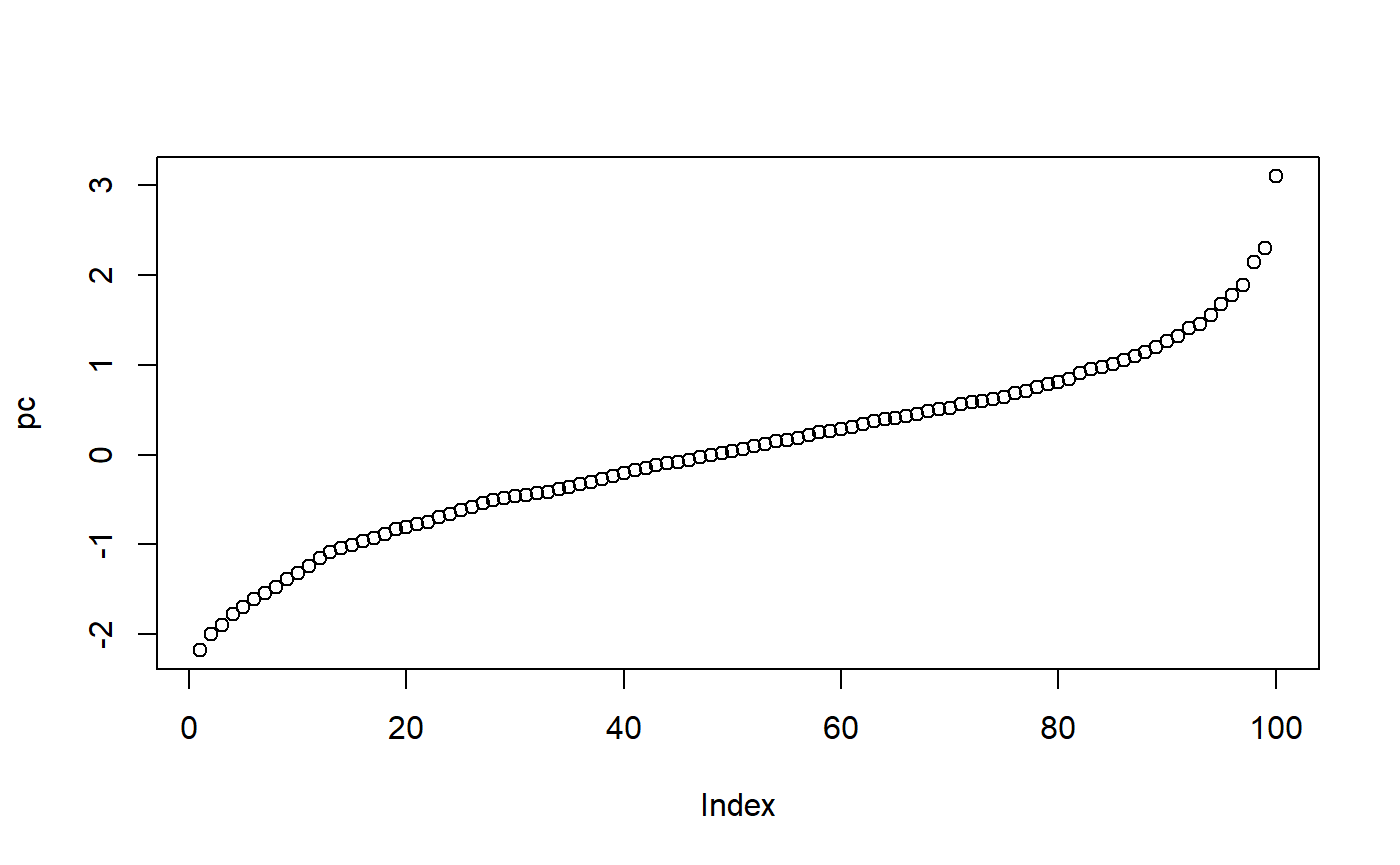
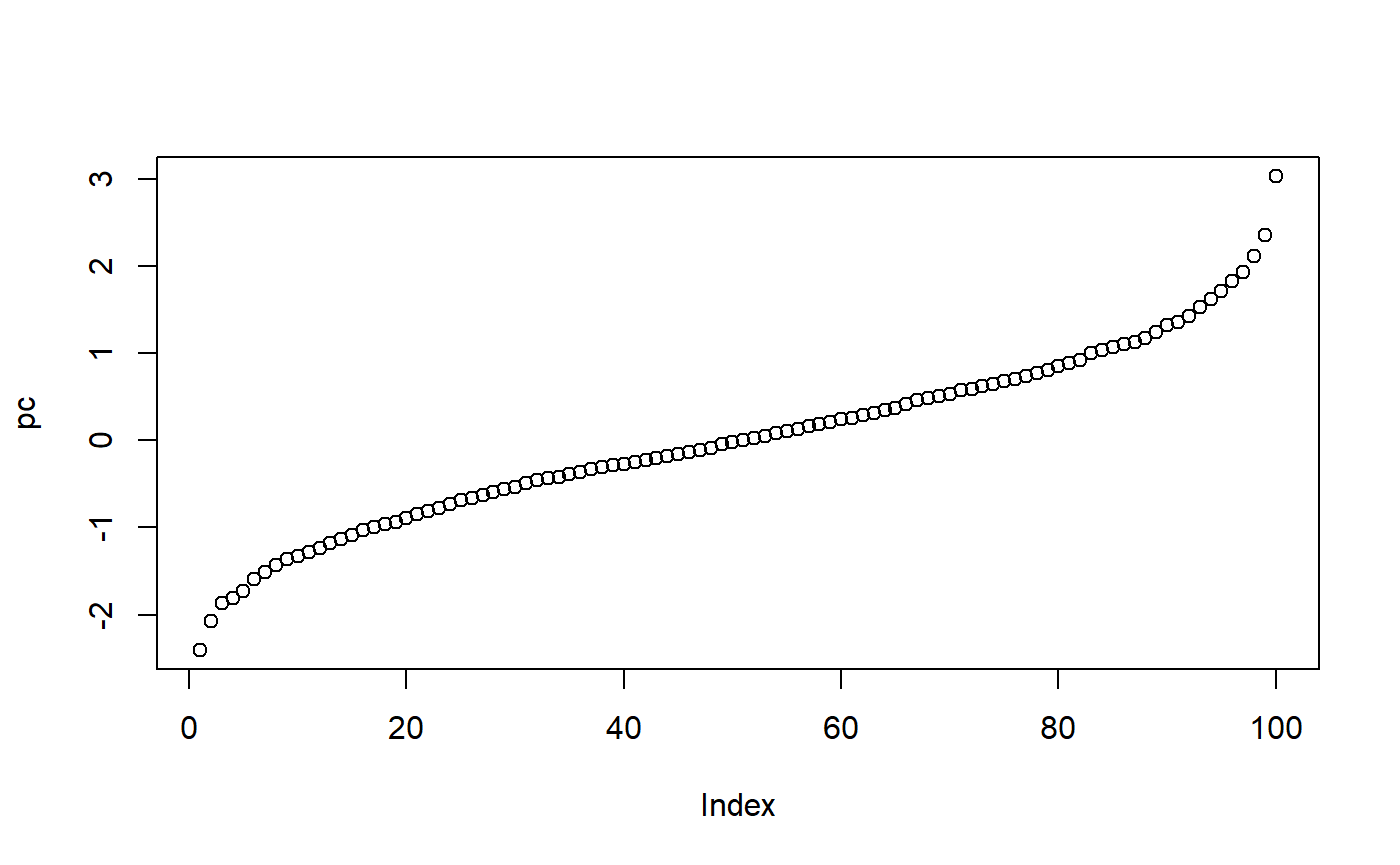
Added new args to the sumtable vignette

diff --git a/docs/articles/sumtable.html b/docs/articles/sumtable.html
@@ -226,6 +226,7 @@
          <span class="kw">factor.counts</span><span class="kw">=</span><span class="fl">TRUE</span>,
          <span class="kw">factor.numeric</span><span class="kw">=</span><span class="fl">FALSE</span>,
          <span class="kw">logical.numeric</span><span class="kw">=</span><span class="fl">FALSE</span>,
+         <span class="kw">logical.labels</span><span class="kw">=</span><span class="fu"><a href="https://rdrr.io/r/base/c.html">c</a></span>(<span class="st">'No'</span>,<span class="st">'Yes'</span>),
          <span class="kw">labels</span><span class="kw">=</span><span class="fl">NA</span>,
          <span class="kw">title</span><span class="kw">=</span><span class="st">'Summary Statistics'</span>,
          <span class="kw">note</span> <span class="kw">=</span> <span class="fl">NA</span>,
@@ -233,6 +234,7 @@
          <span class="kw">col.width</span><span class="kw">=</span><span class="fl">NA</span>,
          <span class="kw">col.align</span><span class="kw">=</span><span class="fl">NA</span>,
          <span class="kw">align</span><span class="kw">=</span><span class="fl">NA</span>,
+         <span class="kw">simple.kable</span><span class="kw">=</span><span class="fl">FALSE</span>,
          <span class="kw">opts</span><span class="kw">=</span><span class="fu"><a href="https://rdrr.io/r/base/list.html">list</a></span>())</pre></body></html></div>
 <p>The goal of <code><a href="../reference/sumtable.html">sumtable()</a></code> is to take a data set <code>data</code> and output a usually-HTML (but <code>data.frame</code>, <code>kable</code>, and <code>latex</code> options are there too) file with summary statistics for each of the variables in <code>data</code>. There are several options as to how the table will be constructed, and each of these options are explained below. Throughout, the output will be built as <code>kable</code>s since this is an RMarkdown document. However, generally you can leave <code>out</code> at its default and it will publish an HTML table to Viewer (in RStudio) or the browser (otherwise). This will also include some additional information about your data that can’t be demonstrated in this vignette:</p>
 <div id="data-and-vars" class="section level2">

diff --git a/docs/articles/vtablehelpers.html b/docs/articles/vtablehelpers.html
@@ -164,8 +164,8 @@
 
 <span class="co">#25th, 50th, 75th percentile</span>
 <span class="no">pc</span>[<span class="fu"><a href="https://rdrr.io/r/base/c.html">c</a></span>(<span class="fl">25</span>,<span class="fl">50</span>,<span class="fl">75</span>)]</pre></body></html></div>
-<pre><code>##         25%         50%         75% 
-## -0.61312682  0.04580149  0.64757426</code></pre>
+<pre><code>##        25%        50%        75% 
+## -0.6847962 -0.0204663  0.6799616</code></pre>
 <div class="sourceCode" id="cb3"><html><body><pre class="r"><span class="co">#Inverse normal CDF with 100 points of articulation</span>
 <span class="fu"><a href="https://rdrr.io/r/base/plot.html">plot</a></span>(<span class="no">pc</span>)</pre></body></html></div>
 <p><img src="vtablehelpers_files/figure-html/unnamed-chunk-2-1.png" width="700"></p>
